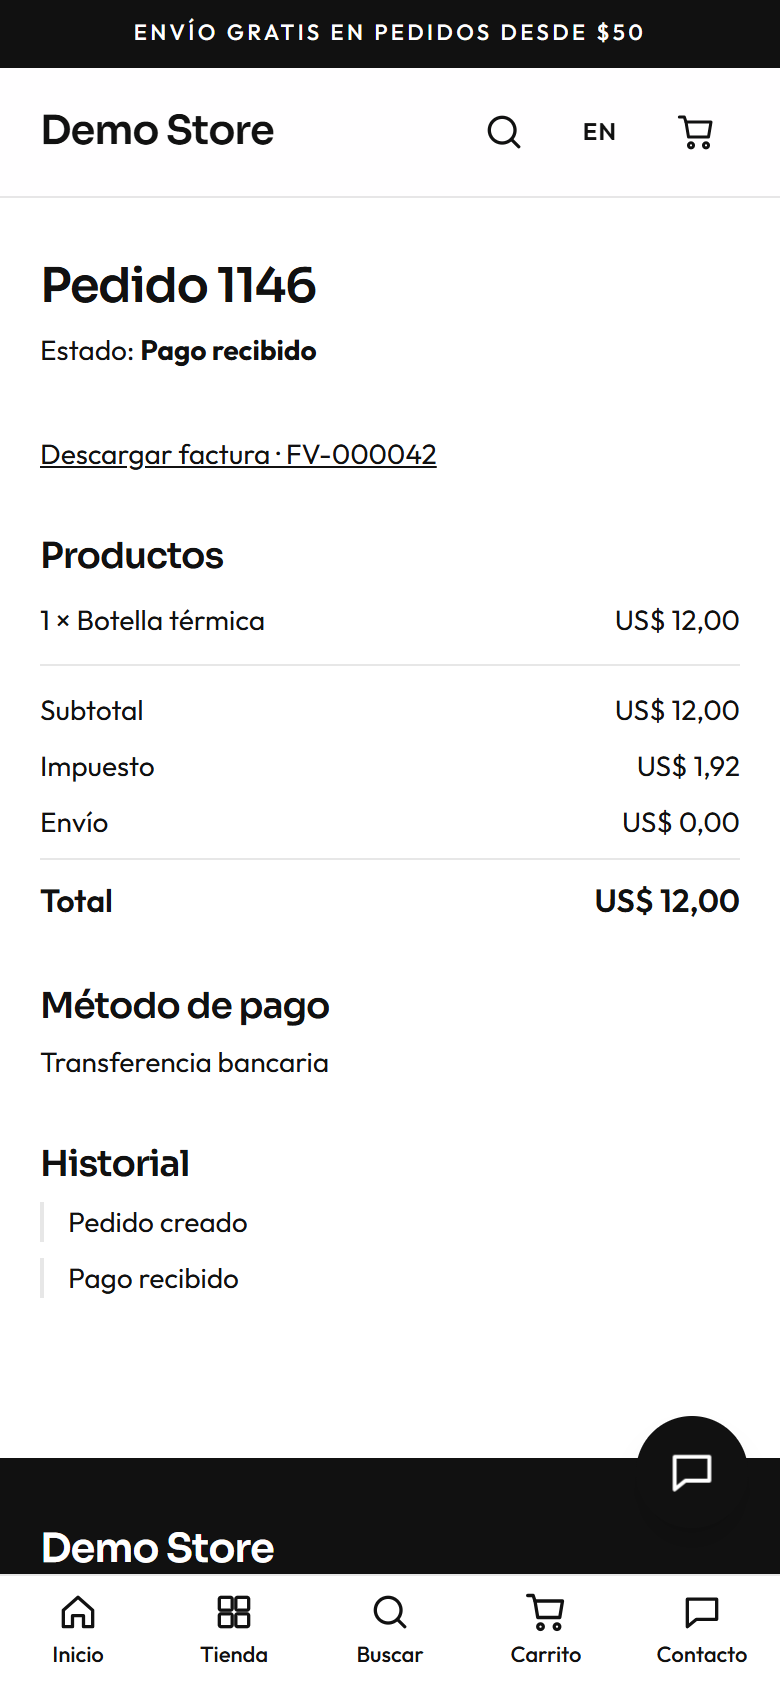
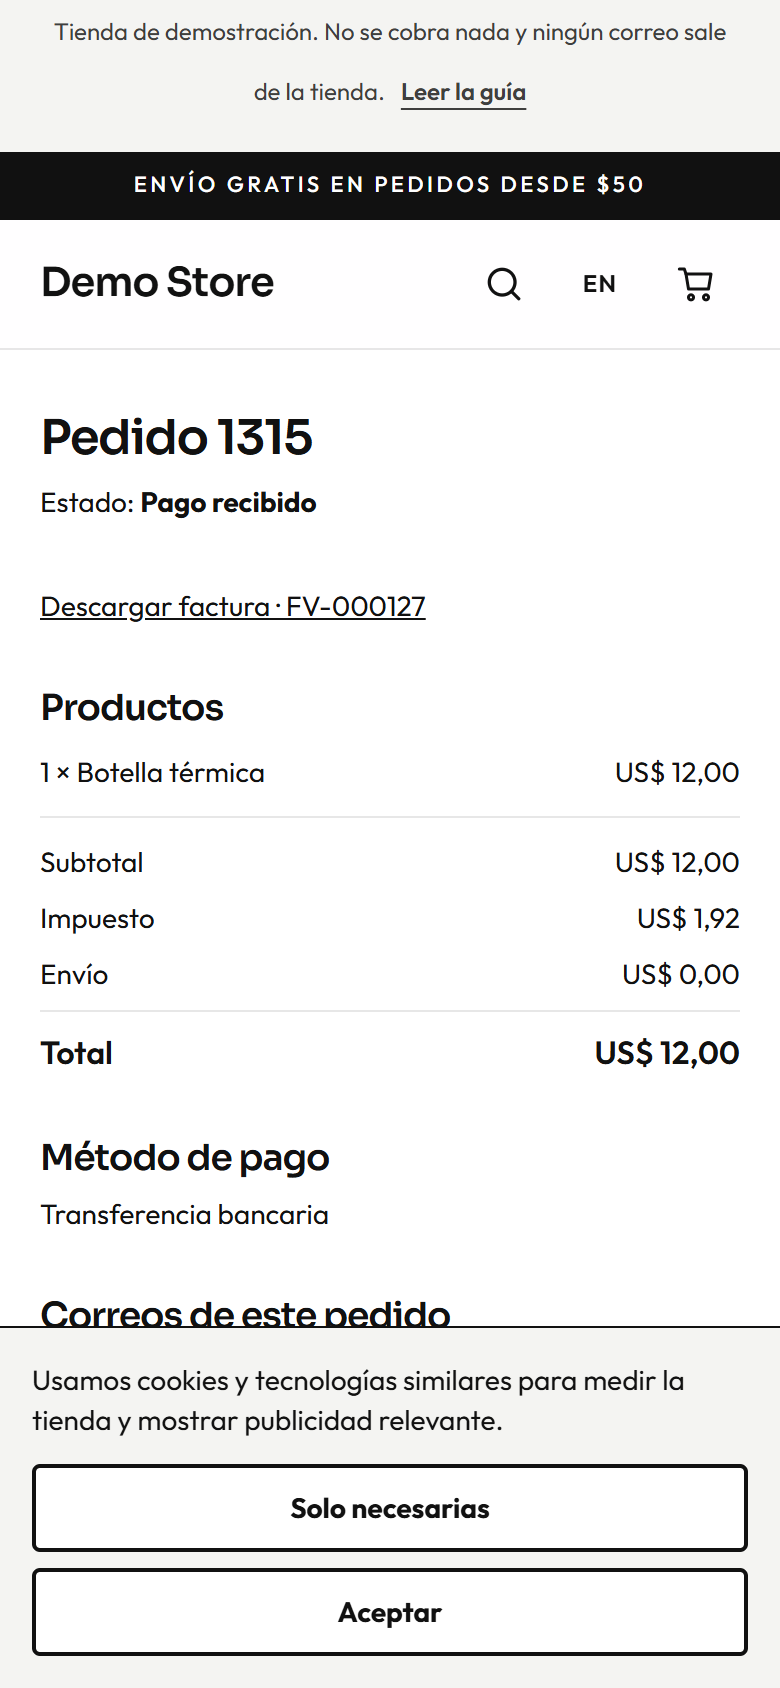
fix(docs): recapture the two Spanish screens that were Chrome's error page
es/admin-notification-log.png and es/admin-reports.png were byte-identical
copies of "This site can't be reached": the capture script had run without
the store up. The message log also needed a real order to have something to
show, so the run places one first; it now shows the three emails with their
channel, recipient and status, which is what the page's text describes.

With the reports screen working again, the Mexico-data card goes back to it
instead of borrowing the dashboard.

diff --git a/docs-site/src/data/guide-stages.ts b/docs-site/src/data/guide-stages.ts
@@ -23,9 +23,7 @@ export const STAGES: Stage[] = [
       ['benefits', 'shop-home-phone'],
       ['benefits/own-website', 'shop-home-desktop'],
       ['benefits/selling-online', 'shop-product-desktop'],
-      // 'admin-reports' is a known-broken capture (the screenshot script ran without the dev server up); 'admin-dashboard' is
-      // the next-best fit for a numbers page and is already used once more, by 'admin/reports' in the "Día a día" stage.
-      ['benefits/mexico-data', 'admin-dashboard'],
+      ['benefits/mexico-data', 'admin-reports'],
     ],
   },
   {
